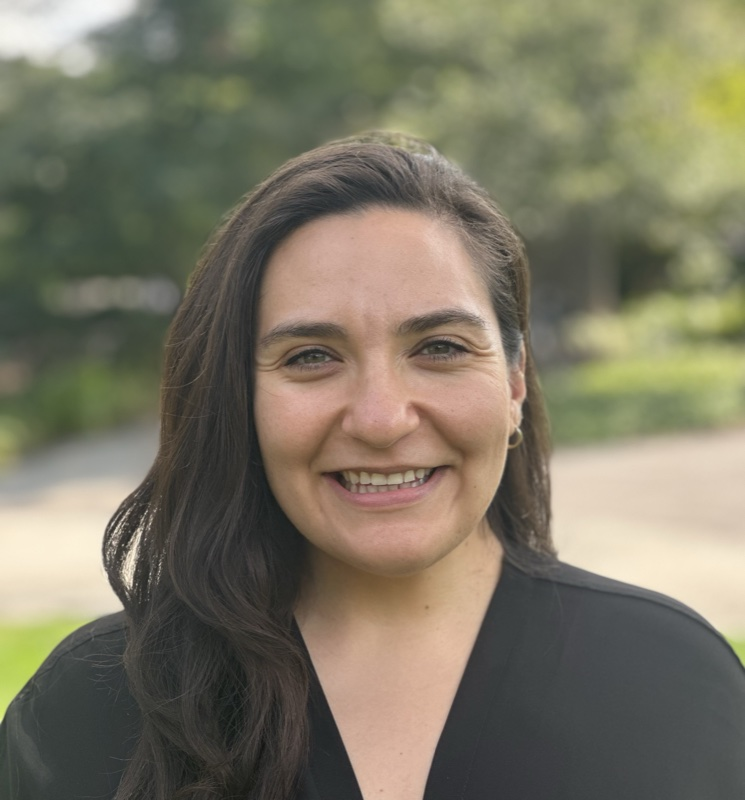
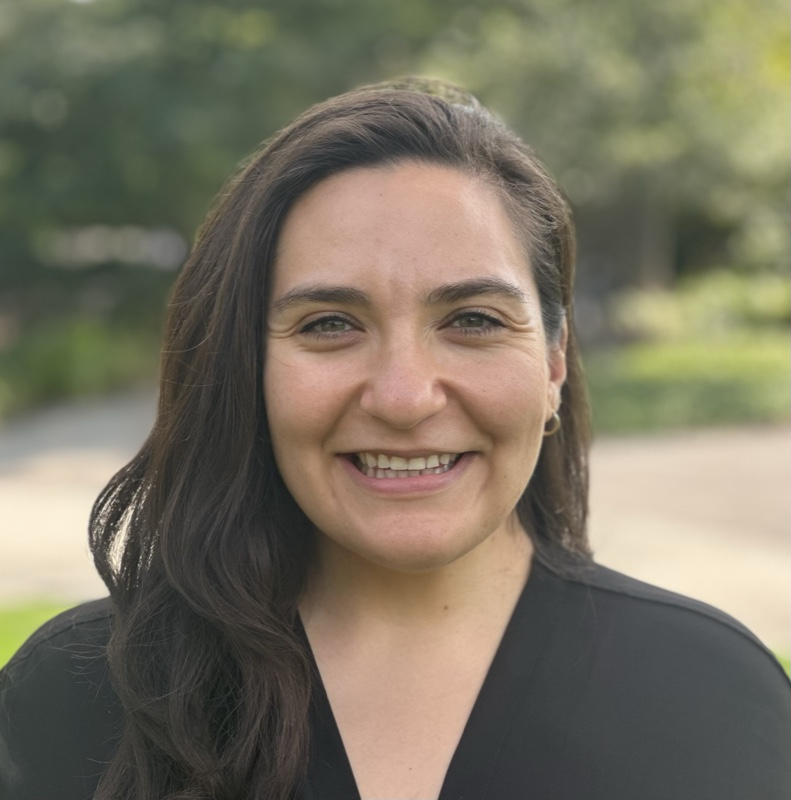
Round profile photo

diff --git a/docs/index.html b/docs/index.html
@@ -168,7 +168,7 @@ ul.task-list li input[type="checkbox"] {
 <div class="quarto-about-trestles">
   <div class="about-entity">
     <img src="profile.jpg" class="about-image
-  rounded " style="width: 15em;">
+  round " style="height: 15em; width: 15em;">
 <header id="title-block-header" class="quarto-title-block default">
 <div class="quarto-title">
 <h1 class="title">Gabriella Aboulafia</h1>
